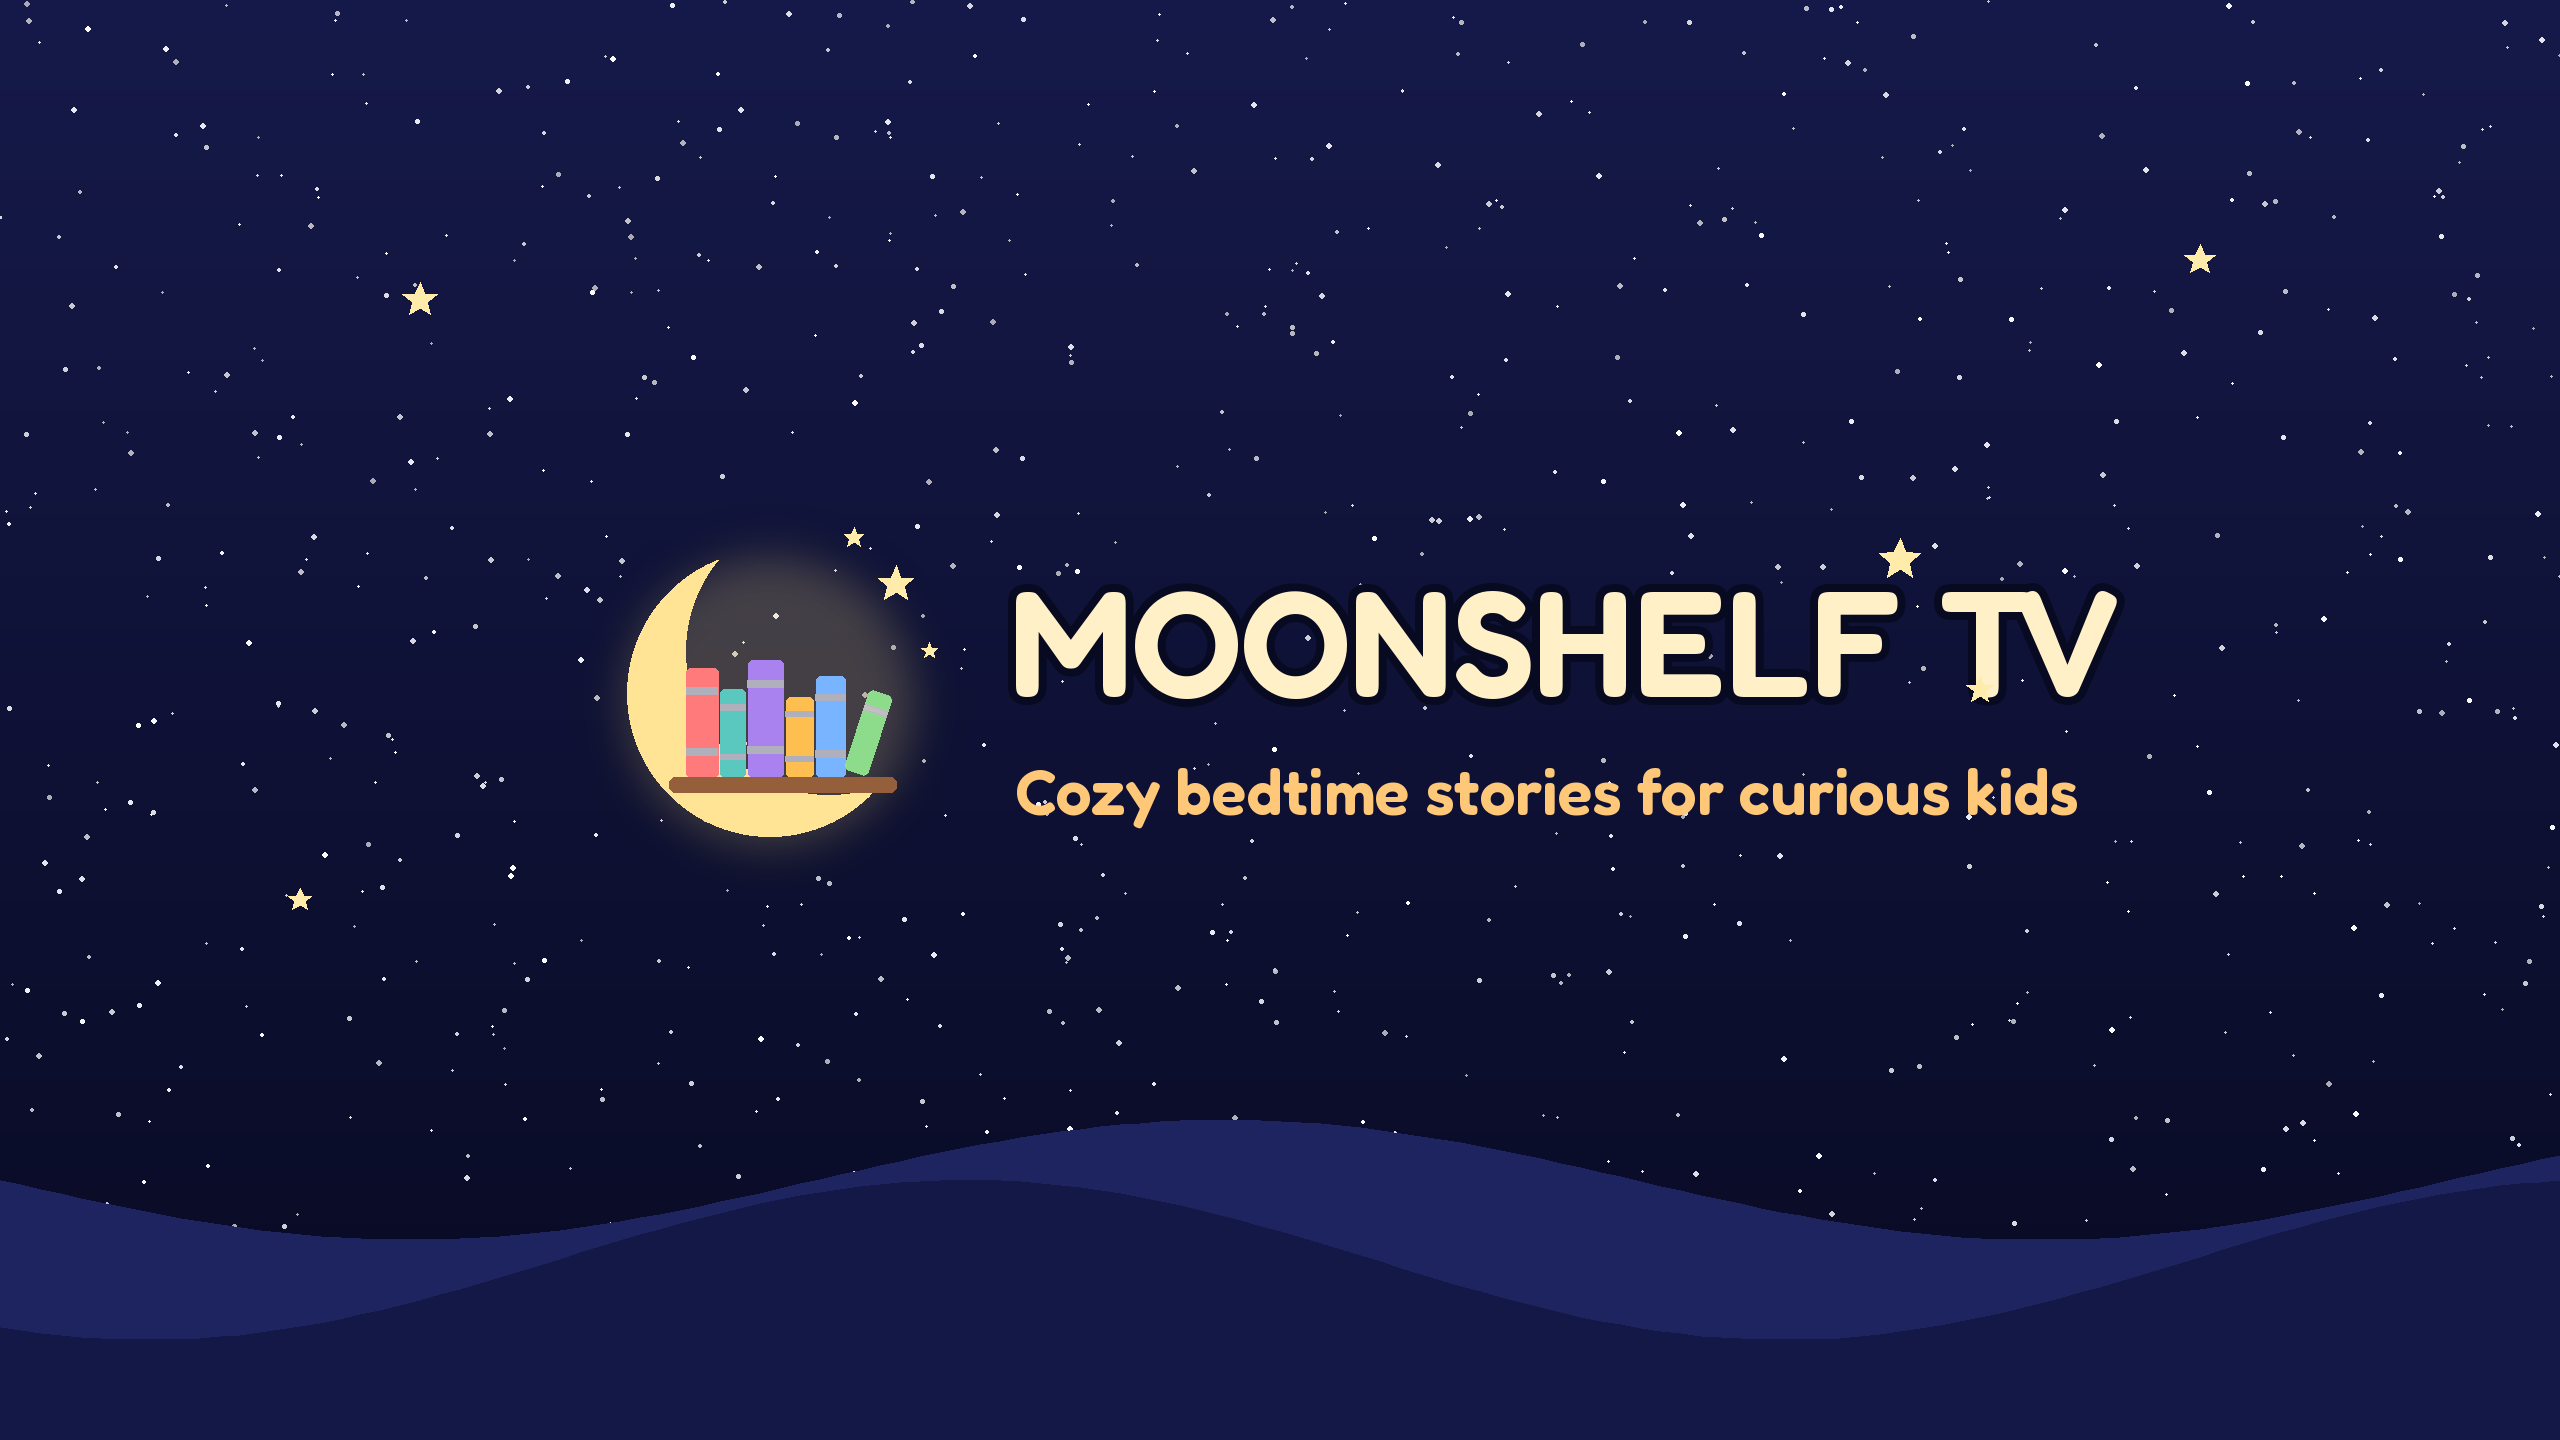
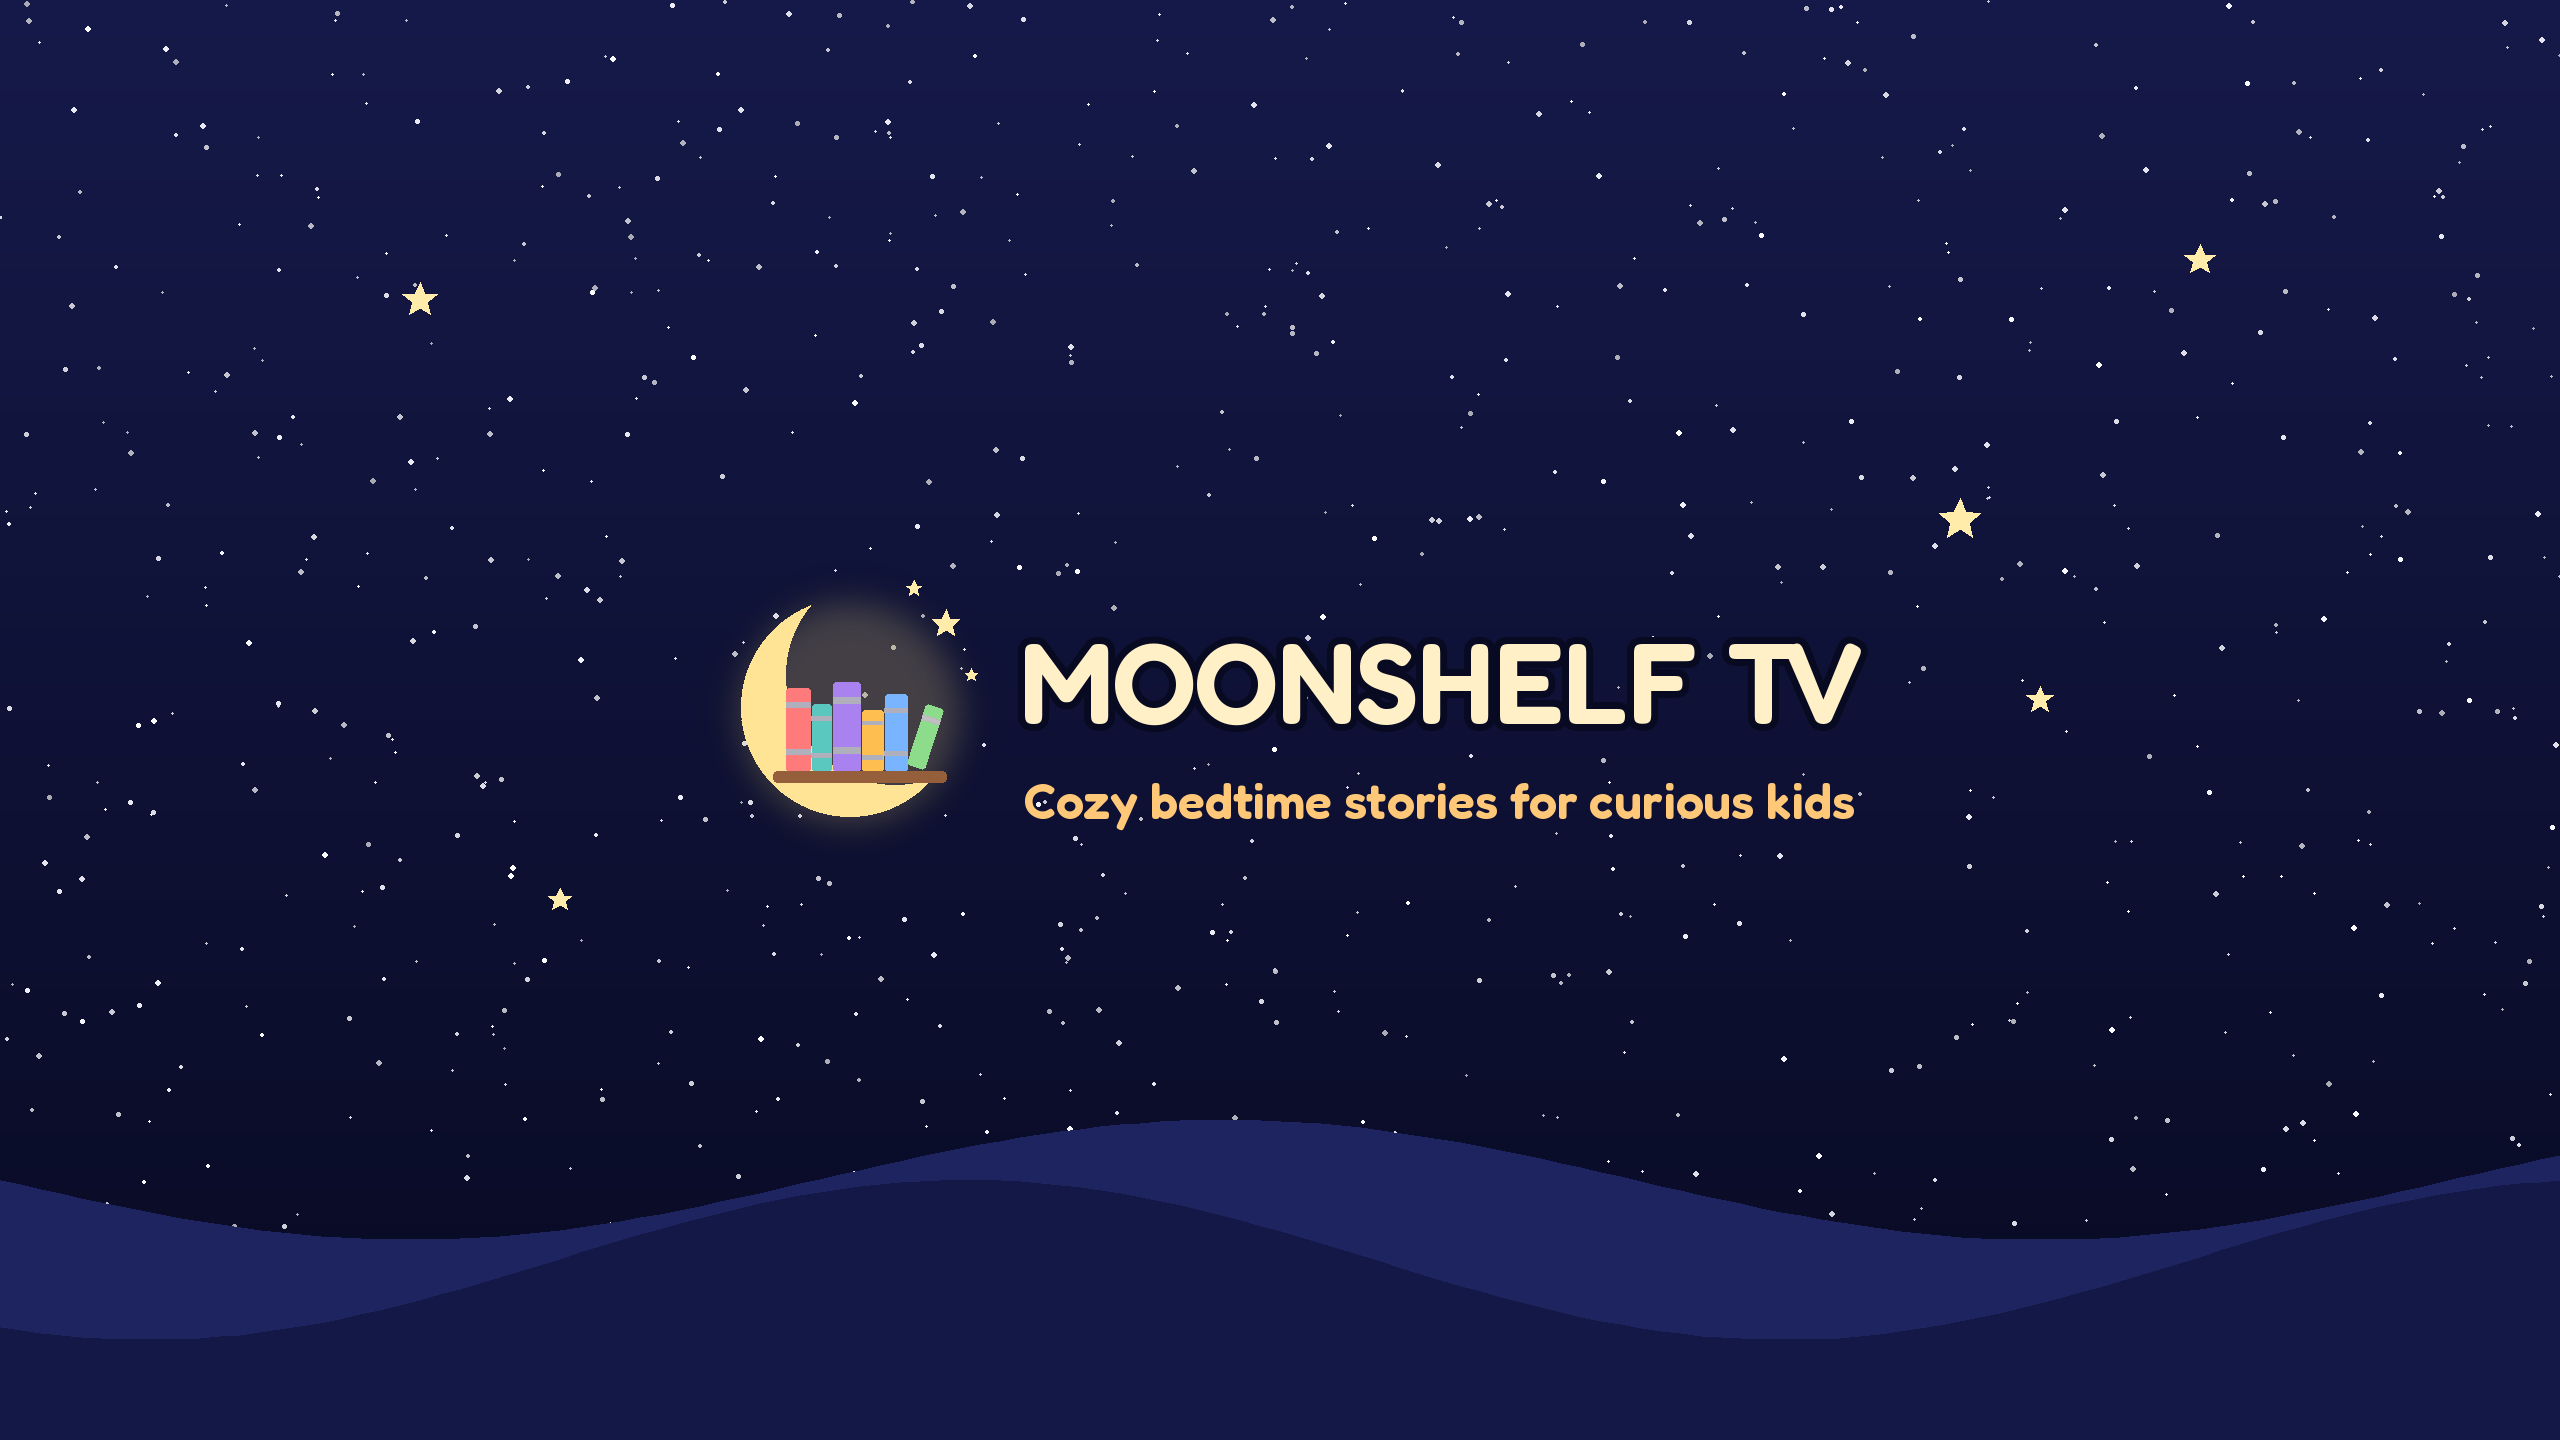
Moonshelf TV kanal kapağı: her şey en dar güvenli alana sığdırıldı
Claude-Session: https://claude.ai/code/session_016sMKQjN4PMf9DJae81BvCQ

Changed region(s): [[0.2188, 0.375, 0.8438, 0.5938], [0.75, 0.3438, 0.7812, 0.375]]

diff --git a/brand/moonshelf/logo.py b/brand/moonshelf/logo.py
@@ -92,11 +92,16 @@ def banner(path):
     for k, (col, amp, off) in enumerate([((30, 36, 96), 60, 1180), ((20, 24, 70), 80, 1260)]):
         pts = [(x, off + amp * math.sin(x / 260 + k)) for x in range(0, W + 20, 20)] + [(W, H), (0, H)]
         d.polygon(pts, fill=col)
-    # güvenli alan: ortadaki 1546x423 (x 507-2053, y 508-931)
-    em = emblem(420); im.alpha_composite(em, (560, 500))
-    text(d, (1010, 640), 'MOONSHELF TV', 150, (255, 240, 200), 'lm', 8, NAVY_BOT)
-    text(d, (1015, 790), 'Cozy bedtime stories for curious kids', 64, (255, 200, 120), 'lm')
-    for x, y, r in [(1900, 560, 22), (1980, 690, 14), (420, 300, 18), (2200, 260, 16), (300, 900, 12)]:
+    # YouTube'un her cihazda görünen en dar alanı: ortadaki 1235x338 (x 662-1897, y 551-889). Her şey bunun içinde.
+    SX0, SX1, SY0, SY1 = 690, 1870, 560, 880
+    em = emblem(320); im.alpha_composite(em, (SX0, 560)); d = ImageDraw.Draw(im)
+    tx = SX0 + 330; maxw = SX1 - tx
+    def fit(sz, s_):
+        while ImageFont.truetype(FONT, sz).getlength(s_) > maxw: sz -= 2
+        return sz
+    text(d, (tx, 680), 'MOONSHELF TV', fit(130, 'MOONSHELF TV'), (255, 240, 200), 'lm', 7, NAVY_BOT)
+    text(d, (tx + 4, 800), 'Cozy bedtime stories for curious kids', fit(56, 'Cozy bedtime stories for curious kids'), (255, 200, 120), 'lm')
+    for x, y, r in [(1960, 520, 22), (2040, 700, 14), (420, 300, 18), (2200, 260, 16), (560, 900, 12)]:
         star(d, x, y, r, (255, 236, 170))
     im.convert('RGB').save(path)
 
